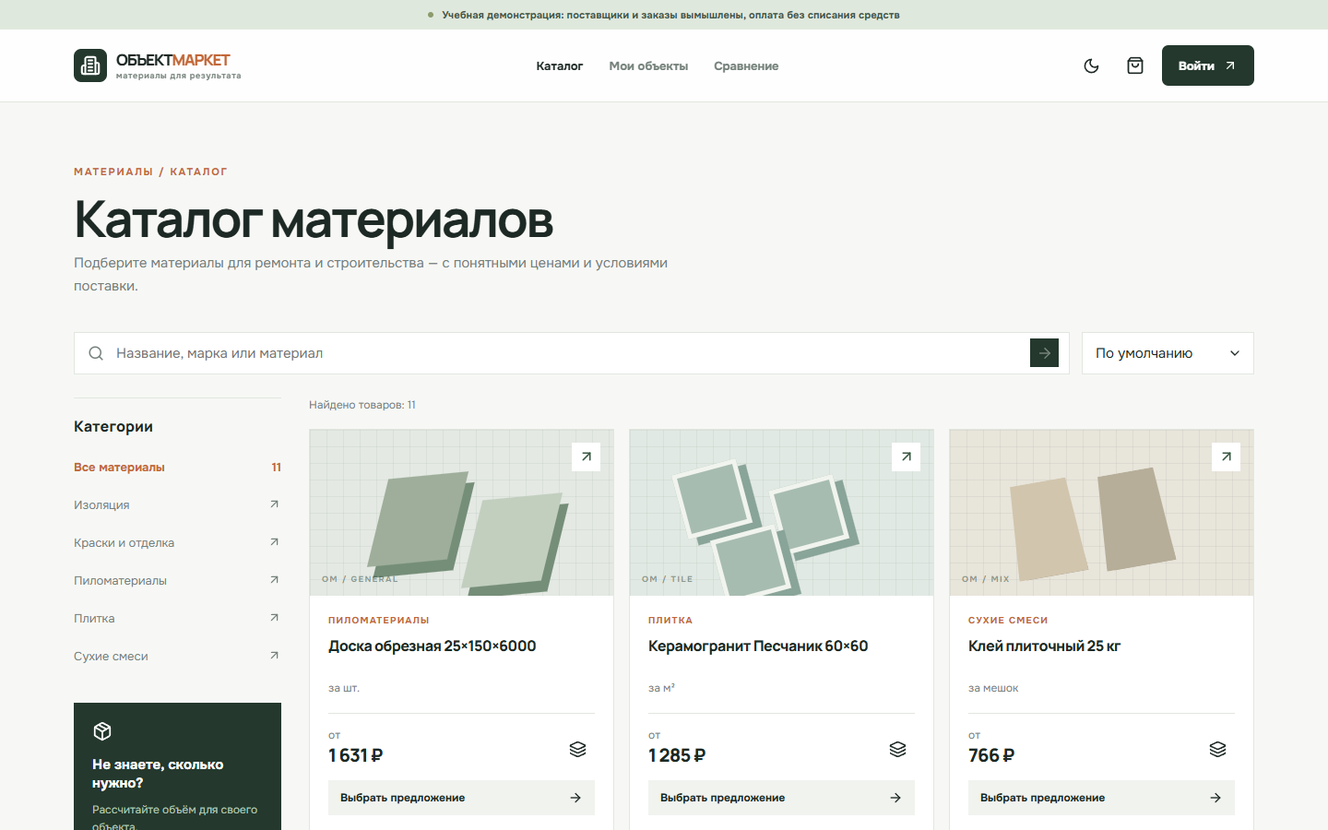
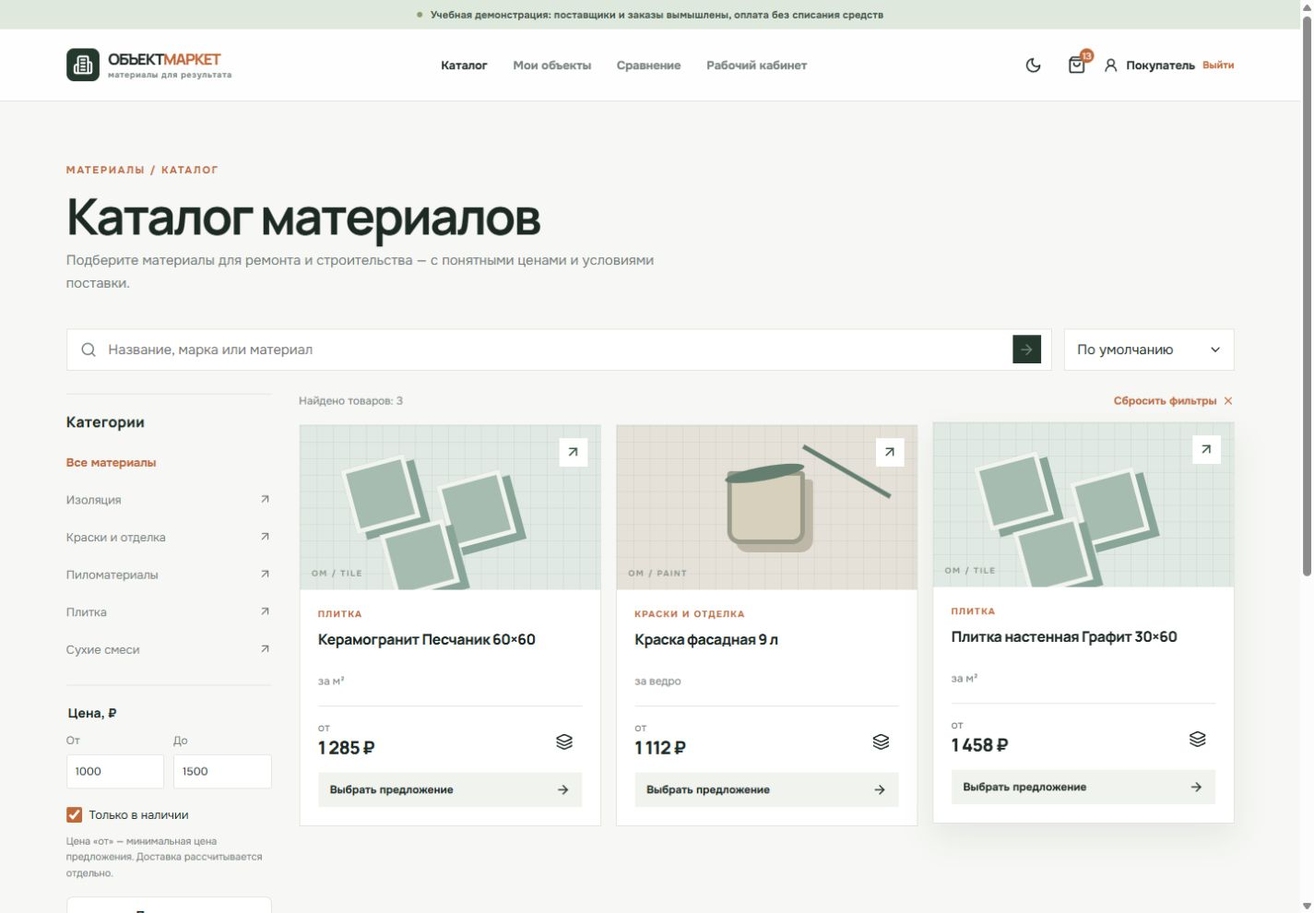
Добавить фильтры цены и наличия в каталоге

diff --git a/web/src/components/shopping.tsx b/web/src/components/shopping.tsx
@@ -12,43 +12,118 @@ import { useDialogFocus } from '@/lib/use-dialog-focus';
 type ShoppingProps = { addToCart: (item: CartItem) => void; toggleCompare: (id: string) => void; compare: string[] };
 
 export function Catalog({ categories, addToCart, toggleCompare, compare }: ShoppingProps & { categories: Category[] }) {
-  const params = useSearchParams(); const router = useRouter();
-  const urlParams=params.toString();
-  const [query, setQuery] = useState(params.get('q') || '');
-  const [appliedQuery, setAppliedQuery] = useState(params.get('q') || '');
-  const [category, setCategory] = useState(params.get('category') || '');
-  const [sort, setSort] = useState(params.get('sort') || '');
-  const [page, setPage] = useState(Number(params.get('page') || 1));
-  const [data, setData] = useState<{items:Product[];total:number;page:number}>({items:[],total:0,page:1});
-  const [loading, setLoading] = useState(true); const [error, setError] = useState(''); const [filtersOpen, setFiltersOpen] = useState(false);
-  const requestId=useRef(0);
-  const searchRef=useRef<HTMLInputElement>(null);
-  const filterRef=useDialogFocus(filtersOpen,()=>setFiltersOpen(false),'[aria-controls="catalog-filters"]');
-  useEffect(()=>{const next=new URLSearchParams(urlParams);const q=next.get('q')||'';setQuery(q);setAppliedQuery(q);setCategory(next.get('category')||'');setSort(next.get('sort')||'');setPage(Number(next.get('page')||1));},[urlParams]);
-  const load = useCallback(() => {
-    const current=++requestId.current;
-    setLoading(true); setError('');
-    const search = new URLSearchParams({page:String(page),limit:'12'});
-    if (appliedQuery) search.set('q', appliedQuery); if (category) search.set('category', category); if (sort) search.set('sort', sort);
-    api<{items:Product[];total:number;page:number}>(`/products?${search}`)
-      .then(result => {if(current===requestId.current)setData(result);})
-      .catch(issue => {if(current===requestId.current)setError(issue.message);})
-      .finally(() => {if(current===requestId.current)setLoading(false);});
-  }, [appliedQuery,category,sort,page]);
-  useEffect(load, [load]);
-  const updateUrl = (next: {q?:string;category?:string;sort?:string;page?:number}) => {
-    const values = {q:appliedQuery,category,sort,page,...next}; const search = new URLSearchParams();
-    if (values.q) search.set('q',values.q); if (values.category) search.set('category',values.category); if (values.sort) search.set('sort',values.sort); if (values.page > 1) search.set('page',String(values.page));
-    router.replace(`/catalog${search.size ? `?${search}` : ''}`, {scroll:false});
-  };
-  const selectCategory = (value:string) => { setCategory(value);setPage(1);updateUrl({category:value,page:1});setFiltersOpen(false); };
-  const changeSort = (value:string) => { setSort(value);setPage(1);updateUrl({sort:value,page:1}); };
-  const submit = (event:React.FormEvent<HTMLFormElement>) => {event.preventDefault();setAppliedQuery(query);setPage(1);updateUrl({q:query,page:1});};
-  const resetFilters = () => {setQuery('');setAppliedQuery('');setCategory('');setPage(1);router.replace('/catalog');searchRef.current?.focus();};
-  const totalPages = Math.ceil(data.total / 12);
-  return <div className="container page-section catalog-page"><PageHeading eyebrow="МАТЕРИАЛЫ / КАТАЛОГ" title="Каталог материалов" description="Подберите материалы для ремонта и строительства — с понятными ценами и условиями поставки."/><div className="catalog-toolbar"><form className="catalog-search" onSubmit={submit}><Search size={18}/><input ref={searchRef} value={query} onChange={event => setQuery(event.target.value)} placeholder="Название, марка или материал" aria-label="Поиск по каталогу"/><button type="submit" aria-label="Искать"><ArrowRight size={18}/></button></form><button className="btn btn-outline filter-toggle" onClick={() => setFiltersOpen(!filtersOpen)} aria-expanded={filtersOpen} aria-controls="catalog-filters"><SlidersHorizontal size={17}/> Фильтры</button><div className="select-wrap"><select value={sort} onChange={event => changeSort(event.target.value)} aria-label="Сортировка"><option value="">По умолчанию</option><option value="price_asc">Сначала дешевле</option><option value="price_desc">Сначала дороже</option><option value="name">По названию</option></select><ChevronDown size={16}/></div></div><div className="catalog-layout"><aside id="catalog-filters" ref={filterRef} tabIndex={-1} role={filtersOpen?'dialog':undefined} aria-modal={filtersOpen?true:undefined} aria-label={filtersOpen?'Фильтры каталога':undefined} className={filtersOpen ? 'filter-panel open' : 'filter-panel'}><div className="filter-title"><b>Категории</b><button className="icon-button filter-close" onClick={() => setFiltersOpen(false)} aria-label="Закрыть фильтры"><X size={19}/></button></div><button className={!category ? 'filter-option selected' : 'filter-option'} onClick={() => selectCategory('')}>Все материалы <span>{data.total || ''}</span></button>{categories.map(item => <button className={category === item.slug ? 'filter-option selected' : 'filter-option'} onClick={() => selectCategory(item.slug)} key={item.id}>{item.name}<ArrowUpRight size={15}/></button>)}<div className="filter-help"><Package size={22}/><b>Не знаете, сколько нужно?</b><p>Рассчитайте объём для своего объекта.</p><Link href="/projects">К калькуляторам <ArrowRight size={15}/></Link></div></aside><div className="catalog-results"><div className="results-caption"><span>{loading ? 'Загружаем…' : `Найдено товаров: ${data.total}`}</span>{(appliedQuery || category) && <button className="link-button" onClick={resetFilters}>Сбросить фильтры <X size={14}/></button>}</div>{error ? <ErrorPanel message={error} onRetry={load}/> : loading ? <div className="loading-row">Загружаем каталог…</div> : data.items.length ? <div className="product-grid catalog-products">{data.items.map(product => <CompactProduct key={product.id} product={product} addToCart={addToCart} toggleCompare={toggleCompare} selected={compare.includes(product.id)}/>)}</div> : <div className="empty-state"><Search size={30}/><b>Ничего не найдено</b><p>Попробуйте другое название или категорию.</p></div>}{totalPages > 1 && <div className="pagination"><button disabled={page <= 1} onClick={() => {setPage(page-1);updateUrl({page:page-1});}}>Назад</button><span>{page} / {totalPages}</span><button disabled={page >= totalPages} onClick={() => {setPage(page+1);updateUrl({page:page+1});}}>Далее</button></div>}</div></div></div>;
-}
+  const params = useSearchParams();
+  const router = useRouter();
+  const appliedQuery = params.get('q') || '';
+  const category = params.get('category') || '';
+  const sort = params.get('sort') || '';
+  const page = Math.min(1000, Math.max(1, Math.floor(Number(params.get('page')) || 1)));
+  const appliedMin = params.get('price_min') || '';
+  const appliedMax = params.get('price_max') || '';
+  const inStock = params.get('in_stock') === '1';
+  const [query, setQuery] = useState(appliedQuery);
+  const [priceMin, setPriceMin] = useState(appliedMin);
+  const [priceMax, setPriceMax] = useState(appliedMax);
+  const [onlyInStock, setOnlyInStock] = useState(inStock);
+  const [filterError, setFilterError] = useState('');
+  const [data, setData] = useState<{ items: Product[]; total: number; page: number }>({ items: [], total: 0, page: 1 });
+  const [loading, setLoading] = useState(true);
+  const [error, setError] = useState('');
+  const [filtersOpen, setFiltersOpen] = useState(false);
+  const requestId = useRef(0);
+  const searchRef = useRef<HTMLInputElement>(null);
+  const filterRef = useDialogFocus(filtersOpen, () => setFiltersOpen(false), '[aria-controls="catalog-filters"]');
 
+  useEffect(() => { setQuery(appliedQuery); }, [appliedQuery]);
+  useEffect(() => { setPriceMin(appliedMin); setPriceMax(appliedMax); setOnlyInStock(inStock); setFilterError(''); }, [appliedMin, appliedMax, inStock]);
+  useEffect(() => {
+    const wideScreen = window.matchMedia('(min-width:821px)');
+    const closeFilters = () => { if (wideScreen.matches) setFiltersOpen(false); };
+    wideScreen.addEventListener('change', closeFilters);
+    return () => wideScreen.removeEventListener('change', closeFilters);
+  }, []);
+  const load = useCallback(() => {
+    const current = ++requestId.current;
+    setLoading(true); setError('');
+    const search = new URLSearchParams({ page: String(page), limit: '12' });
+    if (appliedQuery) search.set('q', appliedQuery);
+    if (category) search.set('category', category);
+    if (sort) search.set('sort', sort);
+    if (appliedMin) search.set('minPriceKopecks', String(Number(appliedMin) * 100));
+    if (appliedMax) search.set('maxPriceKopecks', String(Number(appliedMax) * 100));
+    if (inStock) search.set('inStock', 'true');
+    api<{ items: Product[]; total: number; page: number }>(`/products?${search}`)
+      .then(result => { if (current === requestId.current) setData(result); })
+      .catch(issue => { if (current === requestId.current) setError(issue.message); })
+      .finally(() => { if (current === requestId.current) setLoading(false); });
+  }, [appliedQuery, category, sort, page, appliedMin, appliedMax, inStock]);
+  useEffect(load, [load]);
+
+  const updateUrl = (next: Record<string, string>) => {
+    const search = new URLSearchParams(params.toString());
+    for (const [key, value] of Object.entries(next)) {
+      if (!value || (key === 'page' && value === '1')) search.delete(key);
+      else search.set(key, value);
+    }
+    router.replace(`/catalog${search.size ? `?${search}` : ''}`, { scroll: false });
+  };
+  const selectCategory = (value: string) => { updateUrl({ category: value, page: '' }); setFiltersOpen(false); };
+  const submit = (event: React.FormEvent<HTMLFormElement>) => { event.preventDefault(); updateUrl({ q: query.trim(), page: '' }); };
+  const applyFilters = (event: React.FormEvent<HTMLFormElement>) => {
+    event.preventDefault();
+    if (priceMin && priceMax && Number(priceMax) < Number(priceMin)) { setFilterError('Верхняя граница цены должна быть не меньше нижней.'); return; }
+    setFilterError('');
+    updateUrl({ price_min: priceMin, price_max: priceMax, in_stock: onlyInStock ? '1' : '', page: '' });
+    setFiltersOpen(false);
+  };
+  const resetFilters = () => {
+    setQuery(''); setPriceMin(''); setPriceMax(''); setOnlyInStock(false); setFilterError('');
+    router.replace('/catalog', { scroll: false }); searchRef.current?.focus();
+  };
+  const totalPages = Math.ceil(data.total / 12);
+  const filterCount = Number(Boolean(category)) + Number(Boolean(appliedMin || appliedMax)) + Number(inStock);
+
+  return <div className="container page-section catalog-page">
+    <PageHeading eyebrow="МАТЕРИАЛЫ / КАТАЛОГ" title="Каталог материалов" description="Подберите материалы для ремонта и строительства — с понятными ценами и условиями поставки." />
+    <div className="catalog-toolbar">
+      <form className="catalog-search" onSubmit={submit}>
+        <Search size={18} />
+        <input ref={searchRef} value={query} onChange={event => setQuery(event.target.value)} placeholder="Название, марка или материал" aria-label="Поиск по каталогу" />
+        <button type="submit" aria-label="Искать"><ArrowRight size={18} /></button>
+      </form>
+      <button className="btn btn-outline filter-toggle" onClick={() => setFiltersOpen(!filtersOpen)} aria-expanded={filtersOpen} aria-controls="catalog-filters"><SlidersHorizontal size={17} /> Фильтры{filterCount > 0 && ` (${filterCount})`}</button>
+      <div className="select-wrap">
+        <select value={sort} onChange={event => updateUrl({ sort: event.target.value, page: '' })} aria-label="Сортировка">
+          <option value="">По умолчанию</option><option value="price_asc">Сначала дешевле</option><option value="price_desc">Сначала дороже</option><option value="name">По названию</option>
+        </select><ChevronDown size={16} />
+      </div>
+    </div>
+    <div className="catalog-layout">
+      {filtersOpen && <button className="catalog-filter-backdrop" aria-label="Закрыть фильтры" aria-hidden="true" tabIndex={-1} onClick={() => setFiltersOpen(false)} />}
+      <aside id="catalog-filters" ref={filterRef} tabIndex={-1} role={filtersOpen ? 'dialog' : undefined} aria-modal={filtersOpen ? true : undefined} aria-label={filtersOpen ? 'Фильтры каталога' : undefined} className={filtersOpen ? 'filter-panel open' : 'filter-panel'}>
+        <div className="filter-title"><b>Категории</b><button className="icon-button filter-close" onClick={() => setFiltersOpen(false)} aria-label="Закрыть фильтры"><X size={19} /></button></div>
+        <button className={!category ? 'filter-option selected' : 'filter-option'} onClick={() => selectCategory('')}>Все материалы</button>
+        {categories.map(item => <button className={category === item.slug ? 'filter-option selected' : 'filter-option'} onClick={() => selectCategory(item.slug)} key={item.id}>{item.name}<ArrowUpRight size={15} /></button>)}
+        <form className="catalog-filter-form" onSubmit={applyFilters}>
+          <fieldset><legend>Цена, ₽</legend><div className="price-range">
+            <label>От<input type="number" min="0" max="21474836" step="1" inputMode="numeric" value={priceMin} onChange={event => setPriceMin(event.target.value)} placeholder="0" /></label>
+            <label>До<input type="number" min="0" max="21474836" step="1" inputMode="numeric" value={priceMax} onChange={event => setPriceMax(event.target.value)} placeholder="Любая" /></label>
+          </div></fieldset>
+          <label className="stock-filter"><input type="checkbox" checked={onlyInStock} onChange={event => setOnlyInStock(event.target.checked)} /> Только в наличии</label>
+          <p className="filter-note">Цена «от» — минимальная цена предложения. Доставка рассчитывается отдельно.</p>
+          {filterError && <p className="form-error" role="alert">{filterError}</p>}
+          <button className="btn btn-outline full" type="submit">Применить</button>
+        </form>
+        <div className="filter-help"><Package size={22} /><b>Не знаете, сколько нужно?</b><p>Рассчитайте объём для своего объекта.</p><Link href="/projects">К калькуляторам <ArrowRight size={15} /></Link></div>
+      </aside>
+      <div className="catalog-results">
+        <div className="results-caption"><span aria-live="polite">{loading ? 'Загружаем…' : `Найдено товаров: ${data.total}`}</span>{(appliedQuery || filterCount > 0) && <button className="link-button" onClick={resetFilters}>Сбросить фильтры <X size={14} /></button>}</div>
+        {error ? <ErrorPanel message={error} onRetry={load} /> : loading ? <div className="loading-row">Загружаем каталог…</div> : data.items.length ? <div className="product-grid catalog-products">{data.items.map(product => <CompactProduct key={product.id} product={product} addToCart={addToCart} toggleCompare={toggleCompare} selected={compare.includes(product.id)} />)}</div> : <div className="empty-state"><Search size={30} /><b>Ничего не найдено</b><p>Попробуйте другое название или категорию.</p></div>}
+        {totalPages > 1 && <div className="pagination"><button disabled={page <= 1} onClick={() => updateUrl({ page: String(page - 1) })}>Назад</button><span>{page} / {totalPages}</span><button disabled={page >= totalPages} onClick={() => updateUrl({ page: String(page + 1) })}>Далее</button></div>}
+      </div>
+    </div>
+  </div>;
+}
 export function ProductDetails({ id, addToCart, toggleCompare, compare }: ShoppingProps & {id:string}) {
   const [product,setProduct] = useState<Product|null>(null);const [loading,setLoading]=useState(true);const [error,setError]=useState('');
   const [quantities,setQuantities]=useState<Record<string,number>>({});

diff --git a/api/test/integration.ts b/api/test/integration.ts
@@ -37,6 +37,73 @@ async function waitForServer(child:ChildProcess) {
   throw new Error('API не запустился');
 }
 
+async function catalogFilters() {
+  const suffix=randomUUID().slice(0,8);
+  const term=`Фильтр ${suffix}`;
+  const categoryIds=[randomUUID(),randomUUID()];
+  const ids=Array.from({length:6},()=>randomUUID());
+  const warehouses=(await pool.query<{id:string;supplier_id:string}>('SELECT id,supplier_id FROM warehouses ORDER BY id LIMIT 2')).rows;
+  assert.equal(warehouses.length,2,'для сравнения цен нужны два склада');
+  try {
+    for (let index=0;index<2;index++) await pool.query('INSERT INTO categories(id,name,slug) VALUES($1,$2,$3)',[categoryIds[index],`${term} категория ${index}`,`filter-${suffix}-${index}`]);
+    for (let index=0;index<ids.length;index++) await pool.query('INSERT INTO products(id,category_id,slug,name,unit) VALUES($1,$2,$3,$4,$5)',[ids[index],categoryIds[index===5?1:0],`filter-${suffix}-${index}`,`${term} ${index}`,'шт.']);
+    const offer=async (index:number,price:number,stock:number,active=true,warehouseIndex=0)=>{
+      const warehouse=warehouses[warehouseIndex];
+      await pool.query('INSERT INTO offers(product_id,supplier_id,warehouse_id,price_kopecks,stock,delivery_days,delivery_cost_kopecks,active) VALUES($1,$2,$3,$4,$5,1,0,$6)',[ids[index],warehouse.supplier_id,warehouse.id,price,stock,active]);
+    };
+    await offer(0,100,0); await offer(0,300,5,true,1);
+    await offer(1,200,5); await offer(2,150,0); await offer(3,50,5,false); await offer(5,250,5);
+    const get=async (filters:Record<string,string>={})=>{
+      const result=await request(`/products?${new URLSearchParams({q:term,category:categoryIds[0],limit:'100',...filters})}`);
+      assert.equal(result.status,200,JSON.stringify(result.data));
+      return result.data as {items:Array<{id:string;priceFromKopecks:number|null}>;page:number;total:number};
+    };
+    const baseline=await get({sort:'price_asc'});
+    assert.equal(baseline.total,5,'q и category исключают товар из другой категории');
+    assert.deepEqual(baseline.items.map(row=>row.priceFromKopecks),[100,150,200,null,null],'активное предложение без остатка участвует в цене, неактивное — нет');
+    assert.deepEqual(await get({inStock:'false',sort:'price_asc'}),baseline,'false сохраняет товары без доступного остатка');
+    const range=await get({minPriceKopecks:'100',maxPriceKopecks:'200',sort:'price_desc'});
+    assert.equal(range.total,3);
+    assert.deepEqual(range.items.map(row=>row.priceFromKopecks),[200,150,100],'границы включены, цена — минимум предложений');
+    assert.deepEqual((await get({minPriceKopecks:'100',maxPriceKopecks:'100'})).items.map(row=>row.id),[ids[0]],'равные границы допустимы');
+    assert.equal((await get({minPriceKopecks:'250'})).total,0,'дорогое предложение не подменяет минимум товара');
+    assert.equal((await get({maxPriceKopecks:'150'})).total,2,'верхняя граница без нижней');
+    assert.equal((await get({minPriceKopecks:'0',maxPriceKopecks:'2147483647'})).total,3,'нулевая и предельная границы допустимы, товары без активной цены исключены');
+    assert.equal((await get({maxPriceKopecks:'0'})).total,0);
+    const stocked=await get({inStock:'true',sort:'price_asc'});
+    assert.equal(stocked.total,2,'только активные предложения с положительным остатком');
+    assert.deepEqual(stocked.items.map(row=>[row.id,row.priceFromKopecks]),[[ids[1],200],[ids[0],300]],'наличие меняет минимальную цену и порядок');
+    assert.deepEqual((await get({inStock:'true',sort:'price_desc'})).items.map(row=>row.id),[ids[0],ids[1]]);
+    assert.deepEqual((await get({inStock:'true',minPriceKopecks:'250',maxPriceKopecks:'300'})).items.map(row=>row.id),[ids[0]],'диапазон применён к минимальной цене в наличии');
+    assert.equal((await get({inStock:'true',maxPriceKopecks:'150'})).total,0);
+    const first=await get({inStock:'true',minPriceKopecks:'200',sort:'price_asc',limit:'1'});
+    const second=await get({inStock:'true',minPriceKopecks:'200',sort:'price_asc',limit:'1',page:'2'});
+    const beyond=await get({inStock:'true',minPriceKopecks:'200',sort:'price_asc',limit:'1',page:'3'});
+    assert.deepEqual([first.total,second.total,beyond.total],[2,2,2],'total учитывает фильтры до пагинации');
+    assert.deepEqual([first.items[0].id,second.items[0].id],[ids[1],ids[0]]);
+    assert.equal(beyond.items.length,0);
+    assert.equal(beyond.page,3);
+    assert.deepEqual((await get({category:`filter-${suffix}-1`,inStock:'true',minPriceKopecks:'250'})).items.map(row=>row.id),[ids[5]],'категория по slug сочетается с поиском и ценой');
+    assert.equal((await get({q:`${term} отсутствует`,inStock:'true'})).total,0);
+    for (const name of ['minPriceKopecks','maxPriceKopecks']) {
+      for (const value of ['','-1','1.5','1e2','NaN','Infinity','2147483648','9007199254740992',' 100','+100']) {
+        const invalid=await request(`/products?${new URLSearchParams({[name]:value})}`);
+        assert.equal(invalid.status,400,`${name}=${value}`);
+        assert.equal(invalid.data.code,'invalid_input');
+      }
+    }
+    for (const query of ['minPriceKopecks=200&maxPriceKopecks=100','inStock=','inStock=1','inStock=True','inStock=yes','minPriceKopecks=1&minPriceKopecks=2','maxPriceKopecks=1&maxPriceKopecks=2','inStock=true&inStock=false','sort=__proto__']) {
+      const invalid=await request(`/products?${query}`);
+      assert.equal(invalid.status,400,query);
+      assert.equal(invalid.data.code,'invalid_input');
+    }
+  } finally {
+    await pool.query('DELETE FROM offers WHERE product_id=ANY($1::uuid[])',[ids]);
+    await pool.query('DELETE FROM products WHERE id=ANY($1::uuid[])',[ids]);
+    await pool.query('DELETE FROM categories WHERE id=ANY($1::uuid[])',[categoryIds]);
+  }
+}
+
 async function main() {
   script('scripts/migrate.ts');
   script('scripts/seed.ts');
@@ -46,6 +113,7 @@ async function main() {
   let serverError=''; child.stderr?.on('data',(chunk)=>{serverError+=chunk.toString();});
   try {
     await waitForServer(child).catch((error)=>{throw new Error(`${error}: ${serverError}`);});
+    await catalogFilters();
     const failedEmails=Array.from({length:40},()=>`absent-${randomUUID()}@example.test`);
     const failed=await Promise.all(failedEmails.map((email)=>request('/auth/login','POST',{email,password:'wrong'})));
     assert.ok(failed.every((result)=>result.status===401),'ошибки разных адресов не должны блокировать всех покупателей');
@@ -165,7 +233,7 @@ async function main() {
     const finishes=await Promise.all(multi.data.deliveries.map((delivery: {id:string})=>request(`/driver/deliveries/${delivery.id}/events`,'POST',{status:'delivered'},driver)));
     assert.ok(finishes.every((result)=>result.status===201),JSON.stringify(finishes));
     assert.equal((await request(`/orders/${multi.data.id}`,'GET',undefined,a)).data.status,'delivered','заказ закрывается после параллельного завершения поставок');
-    console.log('PASS: вход, сортировка каталога, снимок единицы, идемпотентность, резерв, права, позиции объекта, конкурентные заказы и поставки');
+    console.log('PASS: вход, сортировка и фильтры каталога, снимок единицы, идемпотентность, резерв, права, позиции объекта, конкурентные заказы и поставки');
   } finally { child.kill(); await pool.end(); }
 }
 main().catch((error)=>{console.error(error);process.exitCode=1;});

diff --git a/api/src/routes/catalog.ts b/api/src/routes/catalog.ts
@@ -15,11 +15,27 @@ export class CatalogController {
     const q = (query.q || '').trim().slice(0,100);
     const category = (query.category || '').trim();
     const sort = query.sort || 'name';
-    const sortSql: Record<string,string> = {name:'p.name ASC,p.id ASC',price_asc:'min(o.price_kopecks) ASC NULLS LAST,p.name ASC,p.id ASC',price_desc:'min(o.price_kopecks) DESC NULLS LAST,p.name ASC,p.id ASC'};
-    if (!sortSql[sort]) throw new ApiError(400,'invalid_input','Неизвестная сортировка');
-    const filter = "WHERE ($1='' OR p.name ILIKE '%'||$1||'%' OR p.description ILIKE '%'||$1||'%') AND ($2='' OR c.slug=$2 OR c.id::text=$2)";
-    const total = await this.db.one<{count:string}>(`SELECT count(*)::text AS count FROM products p JOIN categories c ON c.id=p.category_id ${filter}`,[q,category]);
-    const items = await this.db.rows(`SELECT p.id,p.slug,p.name,p.category_id AS "categoryId",c.name AS category,p.unit,p.image_url AS "imageUrl",p.description,p.specs,min(o.price_kopecks)::int AS "priceFromKopecks" FROM products p JOIN categories c ON c.id=p.category_id LEFT JOIN offers o ON o.product_id=p.id AND o.active ${filter} GROUP BY p.id,c.name ORDER BY ${sortSql[sort]} LIMIT $3 OFFSET $4`,[q,category,limit,(page-1)*limit]);
+    const priceFilter = (name: string): number|null => {
+      const value = query[name];
+      if (value === undefined) return null;
+      if (typeof value !== 'string' || !/^\d+$/.test(value) || !Number.isSafeInteger(Number(value)) || Number(value)>2147483647) throw new ApiError(400,'invalid_input',`${name}: требуется целое число копеек от 0 до 2147483647`);
+      return Number(value);
+    };
+    const minPrice = priceFilter('minPriceKopecks');
+    const maxPrice = priceFilter('maxPriceKopecks');
+    if (minPrice!==null && maxPrice!==null && maxPrice<minPrice) throw new ApiError(400,'invalid_input','Максимальная цена меньше минимальной');
+    if (query.inStock!==undefined && query.inStock!=='true' && query.inStock!=='false') throw new ApiError(400,'invalid_input','inStock: требуется true или false');
+    const inStock = query.inStock==='true';
+    const sortSql: Record<string,string> = {name:'p.name ASC,p.id ASC',price_asc:'available.price ASC NULLS LAST,p.name ASC,p.id ASC',price_desc:'available.price DESC NULLS LAST,p.name ASC,p.id ASC'};
+    if (!Object.hasOwn(sortSql,sort)) throw new ApiError(400,'invalid_input','Неизвестная сортировка');
+    const source = `FROM products p JOIN categories c ON c.id=p.category_id
+      LEFT JOIN LATERAL (SELECT min(o.price_kopecks)::int AS price FROM offers o WHERE o.product_id=p.id AND o.active AND (NOT $3::boolean OR o.stock>0)) available ON true
+      WHERE ($1='' OR p.name ILIKE '%'||$1||'%' OR p.description ILIKE '%'||$1||'%') AND ($2='' OR c.slug=$2 OR c.id::text=$2)
+      AND (NOT $3::boolean OR available.price IS NOT NULL)
+      AND ($4::int IS NULL OR available.price>=$4::int) AND ($5::int IS NULL OR available.price<=$5::int)`;
+    const params = [q,category,inStock,minPrice,maxPrice];
+    const total = await this.db.one<{count:string}>(`SELECT count(*)::text AS count ${source}`,params);
+    const items = await this.db.rows(`SELECT p.id,p.slug,p.name,p.category_id AS "categoryId",c.name AS category,p.unit,p.image_url AS "imageUrl",p.description,p.specs,available.price AS "priceFromKopecks" ${source} ORDER BY ${sortSql[sort]} LIMIT $6 OFFSET $7`,[...params,limit,(page-1)*limit]);
     return {items,page,total:Number(total?.count||0)};
   }
 

diff --git a/web/src/lib/use-dialog-focus.ts b/web/src/lib/use-dialog-focus.ts
@@ -15,6 +15,8 @@ export function useDialogFocus(open: boolean, onClose: () => void, returnSelecto
     const previous = document.activeElement instanceof HTMLElement ? document.activeElement : null;
     const dialog = dialogRef.current;
     if (!dialog) return;
+    const bodyOverflow = document.body.style.overflow;
+    document.body.style.overflow = 'hidden';
     const firstField = dialog.querySelector<HTMLElement>('input:not([type="hidden"]):not(:disabled), select:not(:disabled), textarea:not(:disabled)');
     (firstField || dialog.querySelector<HTMLElement>(focusable) || dialog).focus();
 
@@ -31,9 +33,10 @@ export function useDialogFocus(open: boolean, onClose: () => void, returnSelecto
     document.addEventListener('keydown', onKeyDown);
     return () => {
       document.removeEventListener('keydown', onKeyDown);
+      document.body.style.overflow = bodyOverflow;
       requestAnimationFrame(() => {
         const replacement = returnSelector ? document.querySelector<HTMLElement>(returnSelector) : null;
-        const target = previous?.isConnected ? previous : (replacement?.getClientRects().length ? replacement : document.getElementById('main-content'));
+        const target = previous?.isConnected && previous.getClientRects().length ? previous : (replacement?.getClientRects().length ? replacement : document.getElementById('main-content'));
         target?.focus();
       });
     };

diff --git a/web/src/app/styles.css b/web/src/app/styles.css
@@ -66,3 +66,15 @@ html[data-theme="dark"] .catalog-search input::placeholder{color:#a9bcae;opacity
 .upload-zone{position:relative}
 .upload-zone input{display:block;position:absolute;width:1px;height:1px;opacity:0;top:50%;left:50%}
 .upload-zone:focus-within{outline:3px solid var(--accent);outline-offset:3px}
+
+.catalog-filter-form{border-top:1px solid var(--line);margin-top:18px;padding-top:20px}
+.catalog-filter-form fieldset{border:0;padding:0;margin:0;min-width:0}
+.catalog-filter-form legend{font:800 14px Manrope,sans-serif;margin-bottom:13px}
+.price-range{display:grid;grid-template-columns:1fr 1fr;gap:10px}
+.price-range label{font-size:12px;color:var(--muted)}
+.price-range input{display:block;width:100%;min-width:0;margin-top:7px;padding:10px 9px;background:var(--surface);color:var(--ink);border:1px solid var(--line);border-radius:3px}
+.stock-filter{display:flex;align-items:center;gap:8px;font-size:13px;margin:20px 0 12px;cursor:pointer}
+.stock-filter input{width:17px;height:17px;margin:0;accent-color:var(--accent)}
+.filter-note{font-size:11px;line-height:1.6;color:var(--muted);margin:0 0 16px}
+.catalog-filter-backdrop{display:none}
+@media(max-width:820px){.catalog-filter-backdrop{display:block;position:fixed;inset:0;border:0;background:rgba(0,0,0,.5);z-index:69}.filter-panel.open{box-shadow:none}}

diff --git a/docs/TEST_RESULTS.md b/docs/TEST_RESULTS.md
@@ -16,6 +16,8 @@
 | Справочники администратора | Microsoft Edge через Playwright, локальный Docker-стенд | Созданы тестовые категория и товар, товар найден и изменён через интерфейс. При ширине 390 px горизонтального переполнения нет. Тестовые записи после проверки удалены из локальной базы. Интеграционный тест отдельно проверил идентификатор категории в каталоге и очистку описания товара администратором. |
 | Сортировка каталога | Запросы API, интеграционный тест и Chromium на локальном стенде, 28 сентября | Для 11 демотоваров API вернул цены по возрастанию от 420 до 2 150 ₽ и по убыванию от 2 150 до 420 ₽. Тест также проверил одинаковый набор товаров и размещение товара без предложения в конце обеих сортировок. В браузере карточки показаны в нужном порядке; после смены направления клавиатурой фокус остался на выборе сортировки. |
 | Отправка поиска | Chromium на пересобранном Docker-стенде, 28 сентября | До отправки введённого слова «цемент» каталог сохранял 11 товаров, после Enter показывал один. Смена сортировки сохраняла применённый запрос. Сброс очищал поле, возвращал 11 товаров и переводил фокус в строку поиска. |
+| Цена и наличие в каталоге | Интеграционный тест API на отдельной PostgreSQL 16, Chromium в Docker, 28 сентября | Проверены включённые границы диапазона, минимальная цена активного предложения, исключение нулевого остатка при фильтре наличия, сочетание категории и поиска, число результатов и страницы. Неверные и повторяющиеся параметры возвращают 400. В браузере диапазон 1 000–1 500 ₽ с наличием показал три товара, 600–900 ₽ — один товар за 766 ₽. Обратные границы отклонены без изменения применённого URL. |
+| Мобильная панель фильтров | Chromium, ширина 390 px и переход на 1440 px, 28 сентября | Панель переводит фокус в поле цены и блокирует прокрутку фона. Escape, нажатие на затемнённую область и применение закрывают её и возвращают фокус к кнопке фильтров. После перехода на широкий экран блокировка снимается, фокус переходит к содержимому. Горизонтального переполнения при 390 px не обнаружено. |
 | Адаптивность | Скриншоты страниц при ширине 1440, 768 и 390 px; браузерная проверка объекта и кабинета администратора при 390 px | Главная, каталог, объект и кабинет администратора открылись без горизонтального переполнения страницы. Проверены основные элементы навигации, карточки, фильтры и переключатель темы в мобильном меню. Проверка всех экранов с клавиатуры и аудит WCAG отдельно не проводились. |
 | Клавиатурное управление | Chromium на локальном Docker-стенде, узкий и обычный экран | Проверены переход к содержимому, начальный фокус окна создания объекта, переход по Shift+Tab внутри окна, Escape и возврат фокуса. После входа фокус переходит к ссылке кабинета. После удаления временной позиции объекта фокус переходит к содержимому, а список возвращается к одной исходной позиции. Выбор CSV/XLSX определяется как кнопка. При ширине 390 px фильтры получают фокус, закрываются Escape, а после выбора категории фокус возвращается к кнопке фильтров. В корзине до расчёта доставки оформление обозначено неактивной кнопкой. Полный аудит WCAG и всех окон не проводился. |
 

diff --git a/docs/USER_GUIDE.md b/docs/USER_GUIDE.md
@@ -4,7 +4,7 @@
 
 ## Покупатель
 
-1. Откройте **Каталог**. Введите название материала и нажмите Enter или кнопку поиска. Выберите категорию и откройте карточку товара. В карточке сравните цену, остаток и срок доставки предложений.
+1. Откройте **Каталог**. Введите название материала и нажмите Enter или кнопку поиска. Выберите категорию. Для ограничения цены задайте границы в рублях, при необходимости отметьте **Только в наличии** и нажмите **Применить**. Цена «от» — минимум среди активных предложений; с отметкой наличия учитываются только предложения с положительным остатком. Доставка в эту цену не входит, а достаточность остатка для вашего количества проверяется при расчёте и оформлении. На телефоне настройки открываются кнопкой **Фильтры**. В карточке товара сравните цену, остаток и срок доставки предложений.
 2. Добавьте нужное предложение в корзину. Количество можно изменить перед оформлением. Итог рассчитывается сервером по актуальным данным; стоимость доставки показана отдельно.
 3. Для закупки под объект откройте **Мои объекты**. Создайте объект с адресом, добавьте позиции вручную либо импортируйте таблицу CSV/XLSX. Количество и дату этапа можно изменить в перечне; ненужную позицию — удалить. При импорте проверьте результат по каждой строке: ошибки показаны в таблице, а успешно добавленные строки отмечены. Импорт добавляет строки по одной: если часть не прошла, перед повторной загрузкой удалите из файла уже добавленные строки. Для плитки, краски и сухой смеси есть калькуляторы: они показывают формулу и округление до целой упаковки.
 4. В плане закупки проверьте предложения и добавьте план в корзину. Дата этапа помогает предварительно отсеять слишком медленные предложения, но срок поставки не резервируется: при оформлении проверьте желаемую дату и актуальный расчёт. Если корзина не менялась, объект будет выбран автоматически; его можно сменить вручную. Если доступного остатка не хватает, система покажет причину и предложит исправить корзину. После оформления заказ появится в разделе **Заказы**.

diff --git a/docs/API_CONTRACT.md b/docs/API_CONTRACT.md
@@ -12,7 +12,11 @@
 ## Каталог и предложения
 
 - `GET /categories` — список `{id, name, slug}`.
-- `GET /products?q=&category=&sort=&page=&limit=` — `{items, page, total}`. Элемент: `{id,slug,name,category,categoryId,unit,imageUrl,priceFromKopecks,description,specs}`.
+- `GET /products?q=&category=&sort=&page=&limit=&minPriceKopecks=&maxPriceKopecks=&inStock=` — `{items, page, total}`. Элемент: `{id,slug,name,category,categoryId,unit,imageUrl,priceFromKopecks,description,specs}`. Неиспользуемые фильтры цены и наличия следует опускать, а не передавать пустую строку.
+  - `minPriceKopecks` и `maxPriceKopecks` — необязательные целые неотрицательные копейки от 0 до 2147483647; обе границы включены. Максимум не может быть меньше минимума. Пустые строки, дроби, отрицательные и выходящие за предел значения, а также повторные параметры отклоняются с `400 invalid_input`.
+  - `inStock` принимает только строки `true` и `false`. `true` оставляет товары с активными предложениями, у которых `stock > 0`; `false` и отсутствие параметра не ограничивают наличие. Другие и повторные значения дают `400 invalid_input`.
+  - `priceFromKopecks` — минимум цен активных предложений, а при `inStock=true` — минимум только среди предложений с положительным остатком. Диапазон цены и сортировка `price_asc`/`price_desc` применяются к этому же минимуму. Товары без подходящих предложений имеют `priceFromKopecks: null`, остаются без фильтров цены и наличия и располагаются после товаров с ценой; при любой границе цены или `inStock=true` они исключаются.
+  - Поиск `q`, категория по slug или ID, цена, наличие и сортировка сочетаются. `total` отражает число товаров после всех фильтров до пагинации; пустая страница сохраняет это число. Допустимые сортировки: `name`, `price_asc`, `price_desc`; неизвестная сортировка даёт `400 invalid_input`.
 - `GET /products/:id` — карточка товара с массивом `offers`: `{id,supplierId,supplierName,warehouseId,priceKopecks,stock,deliveryDays,deliveryCostKopecks}`.
 - `GET /supplier/offers`, `POST /supplier/offers`, `PATCH /supplier/offers/:id` — предложения авторизованного поставщика.
 

diff --git a/docs/TEST_PLAN.md b/docs/TEST_PLAN.md
@@ -22,6 +22,8 @@
 
 ## Запись результатов
 
+Отдельно проверяется каталог: границы цены включаются в диапазон, цена и сортировка используют один минимум активных предложений; с фильтром наличия предложения с нулевым остатком исключаются. Число результатов совпадает с выборкой до разбивки на страницы. Категория, поиск и диапазон работают вместе. Неверные, повторяющиеся и обратные границы API отклоняет. В мобильной панели проверяются Escape, закрытие по фону, возврат фокуса и снятие блокировки прокрутки при смене размера экрана.
+
 Для каждого запуска отмечаются дата, версия Git, конфигурация, команда, результат и ссылка на снимок экрана или вывод теста. Отдельно записываются ограничения: работа внешних сервисов проверяется только при наличии новых ключей и сети; демоплатёж не является банковской операцией; маршрутная анимация не является GPS.
 
 ## Сравнение пользовательского процесса
